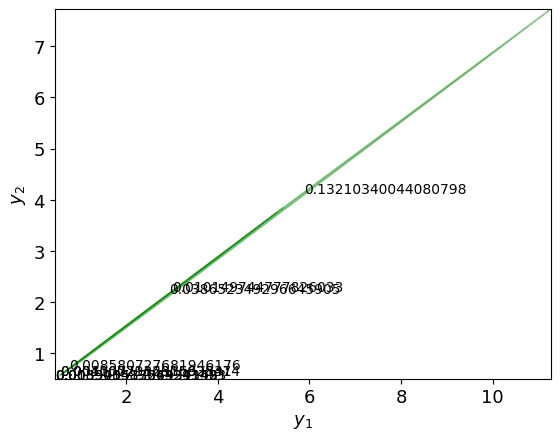
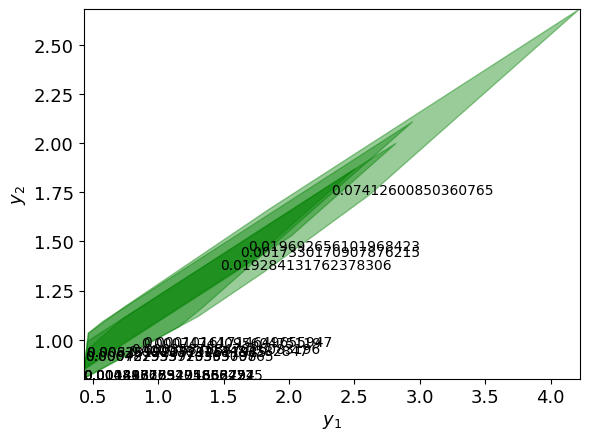
multi-layer rnn verification

diff --git a/StarV/net/network.py b/StarV/net/network.py
@@ -10,63 +10,66 @@ from StarV.layer.ReLULayer import ReLULayer
 from StarV.set.probstar import ProbStar
 import copy
 import multiprocessing
+import itertools
+
 
 class NeuralNetwork(object):
     """Generic serial Neural Network class
 
-       It can be: 
-        * feedforward
-        * concolutional
-        * semantic segmentation
-        * recurrent (may be)
-        * binary
+    It can be:
+     * feedforward
+     * concolutional
+     * semantic segmentation
+     * recurrent (may be)
+     * binary
 
-       Properties:
-           @type: network type
-           @layers: a list of layers
-           @n_layers: number of layers
-           @in_dim: input dimension
-           @out_dim: output dimension
+    Properties:
+        @type: network type
+        @layers: a list of layers
+        @n_layers: number of layers
+        @in_dim: input dimension
+        @out_dim: output dimension
 
-       Methods: 
-           @rand: randomly  generate a network 
+    Methods:
+        @rand: randomly  generate a network
     """
 
     def __init__(self, layers, net_type=None):
 
-        assert isinstance(layers, list), 'error: layers should be a list'
+        assert isinstance(layers, list), "error: layers should be a list"
         self.type = net_type
         self.layers = layers
         self.n_layers = len(layers)
         self.in_dim = layers[0].in_dim
         for i in range(len(layers) - 1, -1, -1):
-            if hasattr(layers[i], 'out_dim'):
+            if hasattr(layers[i], "out_dim"):
                 self.out_dim = layers[i].out_dim
                 break
 
     def info(self):
         """print information of the network"""
 
-        print('\n=============NETWORK===============')
-        print('Network type: {}'.format(self.type))
-        print('Input Dimension: {}'.format(self.in_dim))
-        print('Output Dimension: {}'.format(self.out_dim))
-        print('Number of Layers: {}'.format(self.n_layers))
-        print('Layer types:')
+        print("\n=============NETWORK===============")
+        print("Network type: {}".format(self.type))
+        print("Input Dimension: {}".format(self.in_dim))
+        print("Output Dimension: {}".format(self.out_dim))
+        print("Number of Layers: {}".format(self.n_layers))
+        print("Layer types:")
         for i in range(0, self.n_layers):
-            print('Layer {}: {}'.format(i, type(self.layers[i])))
+            print("Layer {}: {}".format(i, type(self.layers[i])))
 
     def evaluate(self, input_vec):
-        'evaluate a network on a specific input vector'
+        "evaluate a network on a specific input vector"
 
-        assert isinstance(input_vec, np.ndarray), 'error: input vector is not a numpy array'
-        assert len(input_vec.shape) == 1, 'error: input vector should be a 1-d numpy array'
+        assert isinstance(input_vec, np.ndarray), "error: input vector is not a numpy array"
+        assert len(input_vec.shape) == 1, "error: input vector should be a 1-d numpy array"
 
         y = input_vec
         for i in range(0, self.n_layers):
             y = self.layers[i].evaluate(y)
 
         return y
+
 
 def rand_ffnn(arch, actvs):
     """randomly generate feedforward neural network
@@ -75,28 +78,29 @@ def rand_ffnn(arch, actvs):
         @actvs: list of activation functions
     """
 
-    assert isinstance(arch, list), 'error: network architecture should be in a list object'
-    assert isinstance(actvs, list), 'error: activation functions should be in a list object'
-    assert len(arch) >= 2, 'error: network should have at least one layer'
-    assert len(arch) == len(actvs) + 1, 'error: inconsistent between the network architecture and activation list'
+    assert isinstance(arch, list), "error: network architecture should be in a list object"
+    assert isinstance(actvs, list), "error: activation functions should be in a list object"
+    assert len(arch) >= 2, "error: network should have at least one layer"
+    assert len(arch) == len(actvs) + 1, "error: inconsistent between the network architecture and activation list"
 
     for i in range(0, len(arch)):
         if arch[i] <= 0:
-            raise Exception('error: invalid number of neural at {}^th layer'.format(i+1))
+            raise Exception("error: invalid number of neural at {}^th layer".format(i + 1))
 
     for i in range(0, len(actvs)):
-        if actvs[i] != 'poslin' and actvs[i] != 'relu' and actvs[i] != None:
-            raise Exception('error: {} is an unsupported/unknown activation function'.format(actvs[i]))
+        if actvs[i] != "poslin" and actvs[i] != "relu" and actvs[i] != None:
+            raise Exception("error: {} is an unsupported/unknown activation function".format(actvs[i]))
 
     layers = []
     for i in range(0, len(actvs)):
-        W = np.random.rand(arch[i+1], arch[i])
-        b = np.random.rand(arch[i+1])
+        W = np.random.rand(arch[i + 1], arch[i])
+        b = np.random.rand(arch[i + 1])
         layers.append(fullyConnectedLayer(W, b))
-        if actvs[i] == 'poslin' or actvs[i] == 'relu':
+        if actvs[i] == "poslin" or actvs[i] == "relu":
             layers.append(ReLULayer())
 
-    return NeuralNetwork(layers, 'ffnn')
+    return NeuralNetwork(layers, "ffnn")
+
 
 def filterProbStar(*args):
     """Filtering out some probstars"""
@@ -107,7 +111,7 @@ def filterProbStar(*args):
         args1 = args
     p_filter = args1[0]
     S = args1[1]
-    assert isinstance(S, ProbStar), 'error: input is not a probstar'
+    assert isinstance(S, ProbStar), "error: input is not a probstar"
     prob = S.estimateProbability()
     if prob >= p_filter:
         P = S
@@ -117,41 +121,74 @@ def filterProbStar(*args):
         p_ignored = prob
 
     return P, p_ignored
-    
 
-def reachExactBFS(net, inputSet, lp_solver='gurobi', pool=None, show=True):
+
+def reachExactBFS(net, inputSet, lp_solver="gurobi", pool=None, show=True):
     """Compute Reachable Set layer-by-layer"""
 
-    assert isinstance(net, NeuralNetwork), 'error: first input should be a NeuralNetwork object'
-    assert isinstance(inputSet, list), 'error: second input should be a list of Star/ProbStar set'
+    assert isinstance(net, NeuralNetwork), "error: first input should be a NeuralNetwork object"
+    assert isinstance(inputSet, list), "error: second input should be a list of Star/ProbStar set"
 
     S = copy.deepcopy(inputSet)
+
+    # For multi-layer RNN, we need to compute reachable set for each layer
+    if net.type == "rnn" and net.n_layers >= 2:
+        S_next_layer = S
+
+        for i in range(net.n_layers):
+            S_prev_layer = S_next_layer
+            S_next_layer = []
+
+            if i == 0:
+                # Compute reachable set for the first layer
+                output_set, hidden_sets = net.layers[i].reach(S_prev_layer, method="exact", lp_solver=lp_solver, pool=pool)
+            else:
+                # Compute reachable set for other layers
+                hidden_sets = []
+                outputset = []
+                for hidden_prev_layer in S_prev_layer:
+                    output, hidden_set = net.layers[i].reach(hidden_prev_layer, method="exact", lp_solver=lp_solver, pool=pool)
+                    outputset.append(output)
+                    # store hidden set if network has more than 3 layers. Note: this takes a lot of memory
+                    # hidden_sets.append(hidden_set)
+
+                # Arrange output set for the last layer
+                if i == net.n_layers - 1:
+                    output_set = [[output[i][0] for output in outputset] for i in range(len(outputset[0]))]
+
+            # Create all possible combinations of hidden sets of the previous layer
+            S_next_layer = [pair for pair in itertools.product(*hidden_sets)]
+
+        S = output_set
+        return S
+
     for i in range(0, net.n_layers):
         if show:
-            print('Computing layer {} reachable set...'.format(i))
-        S = net.layers[i].reach(S, method='exact', lp_solver=lp_solver, pool=pool)
-        if show:
-            print('Number of stars/probstars: {}'.format(len(S)))
+            print("Computing layer {} reachable set...".format(i))
+        S, _ = net.layers[i].reach(S, method="exact", lp_solver=lp_solver, pool=pool)
+        # if show:
+        #     print("Number of stars/probstars: {}".format(len(S)))
 
     return S
 
-def reachApproxBFS(net, inputSet, p_filter, lp_solver='gurobi', pool=None, show=True):
+
+def reachApproxBFS(net, inputSet, p_filter, lp_solver="gurobi", pool=None, show=True):
     """Compute Approximate Reachable Set layer-by-layer"""
 
-    assert isinstance(net, NeuralNetwork), 'error: first input should be a NeuralNetwork object'
-    assert isinstance(inputSet, list), 'error: second input should be a list of Star/ProbStar set'
+    assert isinstance(net, NeuralNetwork), "error: first input should be a NeuralNetwork object"
+    assert isinstance(inputSet, list), "error: second input should be a list of Star/ProbStar set"
 
     # compute and filter reachable sets
     I = copy.deepcopy(inputSet)
     p_ignored = 0.0
     for i in range(0, net.n_layers):
         if show:
-            print('================ Layer {} ================='.format(i))
-            print('Computing layer {} reachable set...'.format(i))
-        S = net.layers[i].reach(I, method='exact', lp_solver=lp_solver, pool=pool)
+            print("================ Layer {} =================".format(i))
+            print("Computing layer {} reachable set...".format(i))
+        S = net.layers[i].reach(I, method="exact", lp_solver=lp_solver, pool=pool)
         if show:
-            print('Number of probstars: {}'.format(len(S)))
-            print('Filtering probstars whose probabilities < {}...'.format(p_filter))
+            print("Number of probstars: {}".format(len(S)))
+            print("Filtering probstars whose probabilities < {}...".format(p_filter))
         P = []
         if pool is None:
             for S1 in S:
@@ -160,18 +197,17 @@ def reachApproxBFS(net, inputSet, p_filter, lp_solver='gurobi', pool=None, show=
                     P.append(P1)
                 p_ignored = p_ignored + prob1  # update the total probability of ignored sets
         else:
-            S1 = pool.map(filterProbStar, zip([p_filter]*len(S), S))
+            S1 = pool.map(filterProbStar, zip([p_filter] * len(S), S))
             for S2 in S1:
                 if isinstance(S2[0], ProbStar):
                     P.append(S2[0])
                 p_ignored = p_ignored + S2[1]
-        I = P            
+        I = P
         if show:
-            print('Number of ignored probstars: {}'.format(len(S) - len(I)))
-            print('Number of remaining probstars: {}'.format(len(I)))
+            print("Number of ignored probstars: {}".format(len(S) - len(I)))
+            print("Number of remaining probstars: {}".format(len(I)))
 
         if len(I) == 0:
             break
-
 
     return I, p_ignored

diff --git a/HSCC2024_run_RecurrentNN.py b/HSCC2024_run_RecurrentNN.py
@@ -23,9 +23,18 @@ def quantiverify_RecurrentNN(numCores):
     print("Quantitative Verification of Recurrent Neural Network")
     print("=====================================================")
 
+    # One-layer recurrent neural network
+    # layers = []
+    # L = RecurrentLayer.rand(2, 2)
+    # layers.append(L)
+    # net = NeuralNetwork(layers, "rnn")
+
+    # Two-layer recurrent neural network
     layers = []
     L1 = RecurrentLayer.rand(2, 2)
+    L2 = RecurrentLayer.rand(2, 2)
     layers.append(L1)
+    layers.append(L2)
     net = NeuralNetwork(layers, "rnn")
 
     lb = np.array([-4, -1])
@@ -43,10 +52,10 @@ def quantiverify_RecurrentNN(numCores):
     for i in range(t_step):
         inputSet.append(In)
 
-    # unsafe_mat = np.array([[1.0, 0.0]])
-    # unsafe_vec = np.array([1.0])
-    unsafe_mat = np.array([[1.0, 1.0]])
-    unsafe_vec = np.array([2])
+    unsafe_mat = np.array([[1.0, 0.0]])
+    unsafe_vec = np.array([3.0])
+    # unsafe_mat = np.array([[1.0, 1.0]])
+    # unsafe_vec = np.array([2])
     inputProb = In.estimateProbability()
 
     data = []

diff --git a/artifacts/HSCC2024/RecurrentNet/RecurrentNetTable.tex b/artifacts/HSCC2024/RecurrentNet/RecurrentNetTable.tex
@@ -2,6 +2,6 @@
 \hline
    p\_filter &   OutputSet &   UnsafeOutputSet &   CounterInputSet &   UnsafeProb-LB &   UnsafeProb-UB &   UnsafeProb-Min &   UnsafeProb-Max &   inputSet Probability &   VerificationTime \\
 \hline
-          0 &           9 &                12 &                 0 &        0.279387 &        0.279387 &         0.279387 &         0.791672 &               0.487888 &           0.183231 \\
+          0 &          16 &                20 &                 0 &        0.487672 &        0.487672 &         0.487672 &                1 &               0.487888 &            0.33237 \\
 \hline
 \end{tabular}

diff --git a/StarV/layer/RecurrentLayer.py b/StarV/layer/RecurrentLayer.py
@@ -143,7 +143,10 @@ class RecurrentLayer(object):
                 o = hidden.affineMap(self.Woh, self.bo)
                 output_set[i].extend(ReLULayer.reach([o], method="exact", lp_solver=lp_solver))
 
-        return output_set
+        return output_set, hidden_set
+
+    def combineInput(self, input_set: list) -> ProbStar:
+        return 0
 
     def reach(
         self,
